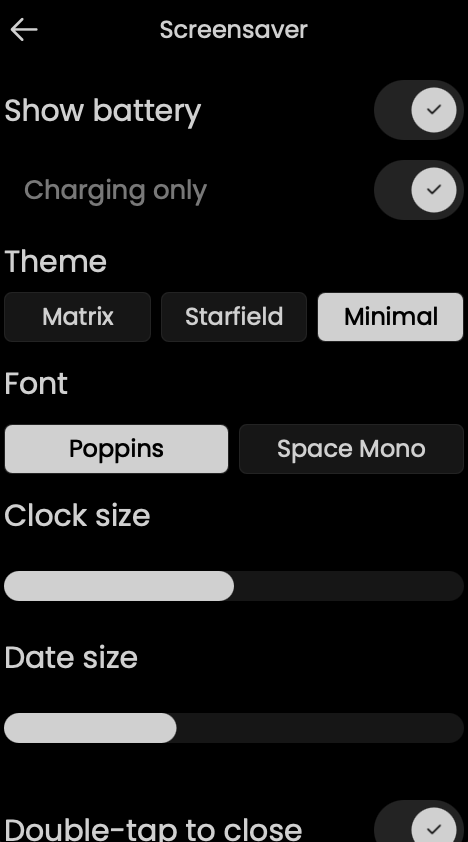
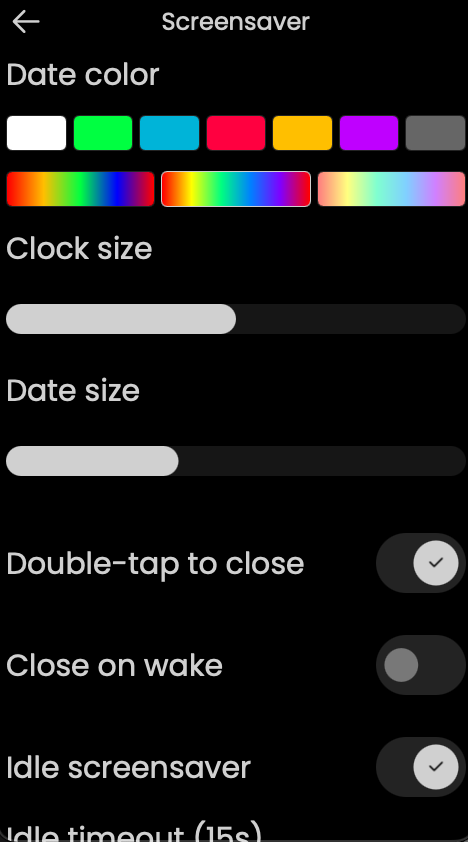
[docs] screensaver: fresh screenshots for all 4 themes
Replace stale menu-01..13 screenshots with current settings pages:
- Matrix: 7 config shots (theme selector at top, full settings flow)
- Starfield: 3 shots (speed/density, star size/trail, star color)
- Minimal: 3 shots (font/time color, date color/size, clock/date size)
- Analog: 1 shot (battery + behavior only)
- Updated Starfield theme screenshot (new warp effect)
- README screenshot tables organized per-theme

diff --git a/SCREENSAVER-README.md b/SCREENSAVER-README.md
@@ -10,23 +10,37 @@ A fully configurable screensaver system for the UC Remote 3. Four themes — GPU
 |:------------------:|:-------------------:|:---------:|:-------------:|
 | ![Neon](docs/screenshots/matrix-color-01.jpeg) | ![Green](docs/screenshots/matrix-color-02.jpeg) | ![Starfield](docs/screenshots/starfield.png) | ![Minimal](docs/screenshots/minimal.png) |
 
-### Settings
+### Settings — Matrix
 
-| Theme & Overlays | Appearance | Direction & Visual |
-|:----------------:|:----------:|:------------------:|
-| ![Theme](docs/screenshots/menu-02.png) | ![Appearance](docs/screenshots/menu-04.png) | ![Direction](docs/screenshots/menu-05.png) |
+| Theme & Overlays | Appearance | Direction & Effects |
+|:----------------:|:----------:|:-------------------:|
+| ![Theme](docs/screenshots/matrix-config-01.png) | ![Appearance](docs/screenshots/matrix-config-02.png) | ![Direction](docs/screenshots/matrix-config-03.png) |
 
-| Glitch Effects | Direction Glitch | Chaos & Tap |
-|:--------------:|:----------------:|:-----------:|
-| ![Glitch](docs/screenshots/menu-06.png) | ![DirGlitch](docs/screenshots/menu-07.png) | ![Chaos](docs/screenshots/menu-08.png) |
+| Glitch & Chaos | Tap Effects | Messages & Behavior |
+|:--------------:|:-----------:|:-------------------:|
+| ![Glitch](docs/screenshots/matrix-config-04.png) | ![Tap](docs/screenshots/matrix-config-05.png) | ![Messages](docs/screenshots/matrix-config-06.png) |
 
-| Tap Effects | Messages & Behavior | DPAD & Touch |
-|:-----------:|:-------------------:|:------------:|
-| ![Tap](docs/screenshots/menu-09.png) | ![Messages](docs/screenshots/menu-11.png) | ![DPAD](docs/screenshots/menu-12.png) |
+| DPAD & Touch |
+|:------------:|
+| ![DPAD](docs/screenshots/matrix-config-07.png) |
 
-| Starfield Settings | Minimal Settings | Minimal Settings (cont.) |
-|:------------------:|:----------------:|:------------------------:|
-| ![Starfield](docs/screenshots/starfield-settings.png) | ![Minimal](docs/screenshots/minimal-settings-01.png) | ![Minimal2](docs/screenshots/minimal-settings-02.png) |
+### Settings — Starfield
+
+| Speed & Density | Star Size & Trail | Star Color |
+|:---------------:|:-----------------:|:----------:|
+| ![Speed](docs/screenshots/starfield-settings-01.png) | ![Size](docs/screenshots/starfield-settings-02.png) | ![Color](docs/screenshots/starfield-settings-03.png) |
+
+### Settings — Minimal
+
+| Font & Time Color | Date Color & Size | Clock & Date Size |
+|:-----------------:|:-----------------:|:-----------------:|
+| ![Font](docs/screenshots/minimal-settings-01.png) | ![Date](docs/screenshots/minimal-settings-02.png) | ![Size](docs/screenshots/minimal-settings-03.png) |
+
+### Settings — Analog
+
+| Analog Settings |
+|:---------------:|
+| ![Analog](docs/screenshots/analog-settings-01.png) |
 
 ## Features
 
